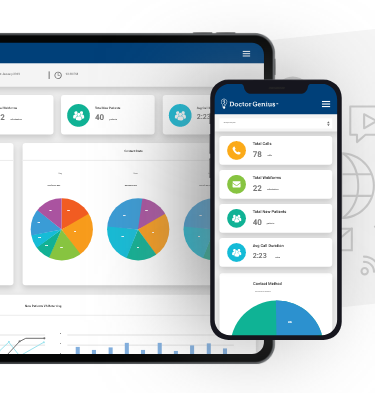
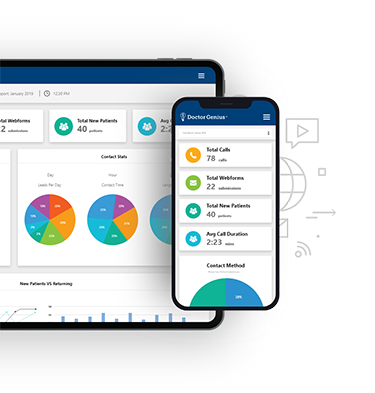
Homepage marketing image updated and adjusted js/sass to make the image an element instead of background

diff --git a/src/pages/index.js b/src/pages/index.js
@@ -20,8 +20,8 @@ import newPatientAcquisitions from "../img/home-new-patient-acquisitions.png"
 import dgDifferent from "../img/home-dg-different.png"
 import dgClientSatisfaction from "../img/home-dg-client-satisfaction.png"
 import SEO from "../components/seo.js"
-// import homepageMarketingDashboardDesktop from "../img/homepage-marketing-dashboard-desktop.png"
-// import homepageMarketingDashboardMobile from "../img/homepage-marketing-dashboard-mobile.png"
+import homepageMarketingDashboard from "../img/homepage-marketing-dashboard.jpg"
+import homepageMarketingDashboardMobile from "../img/homepage-marketing-dashboard-mobile.jpg"
 
 export default ({ data }, props) => (
   <DefaultPageLayout location={props["*"]}>
@@ -162,8 +162,21 @@ export default ({ data }, props) => (
           </div>
         </Container>
 
-        <div className="row full-bleed-image-row">
-          <div className="col-12 full-bleed-img" />
+        <div className="row">
+          <div className="col-12">
+            <center>
+              <img
+                className="img-responsive marketing-dashboard-lg"
+                src={homepageMarketingDashboard}
+                alt="Digital Marketing Dashboard"
+              />
+              <img
+                src={homepageMarketingDashboardMobile}
+                className="img-responsive marketing-dashboard-sm"
+                alt="Digital Marketing Dashboard"
+              />
+            </center>
+          </div>
         </div>
 
         <Container>

diff --git a/src/styles/homepage.scss b/src/styles/homepage.scss
@@ -267,9 +267,21 @@ $homepage-h1-font-size: $font-size-base * 4.881;
       border: none !important;
     }
   }
+
+  img.marketing-dashboard-lg {
+    @include media("<=phone") {
+      display: none;
+    }
+  }
+  img.marketing-dashboard-sm {
+    @include media(">phone") {
+      display: none;
+    }
+  }
 }
 
-.full-bleed-image-row {
+/* Removed full-bleed css as we do not use it anymore */
+/*.full-bleed-image-row {
   height: 650px;
   @include media("<=laptop") {
     height: 400px;
@@ -288,13 +300,13 @@ $homepage-h1-font-size: $font-size-base * 4.881;
   }
 }
 .full-bleed-img {
-  background: url("../img/homepage-marketing-dashboard-desktop.png") no-repeat
-    50% 50%;
+  background: url("../img/homepage-marketing-dashboard-desktop.png") no-repeat 50%
+    50%;
   background-size: cover;
   height: 100%;
   @include media("<=tablet") {
-    background: url("../img/homepage-marketing-dashboard-tablet.png") no-repeat
-      50% 50%;
+    background: url("../img/homepage-marketing-dashboard-tablet.png") no-repeat 50%
+      50%;
     background-size: cover;
     height: 100%;
   }
@@ -304,7 +316,7 @@ $homepage-h1-font-size: $font-size-base * 4.881;
     background-size: cover;
     height: 100%;
   }
-}
+} */
 
 /* TODO START- Homepage border in the hero - need to fix this */
 // .homepage .hero .accent-block {
